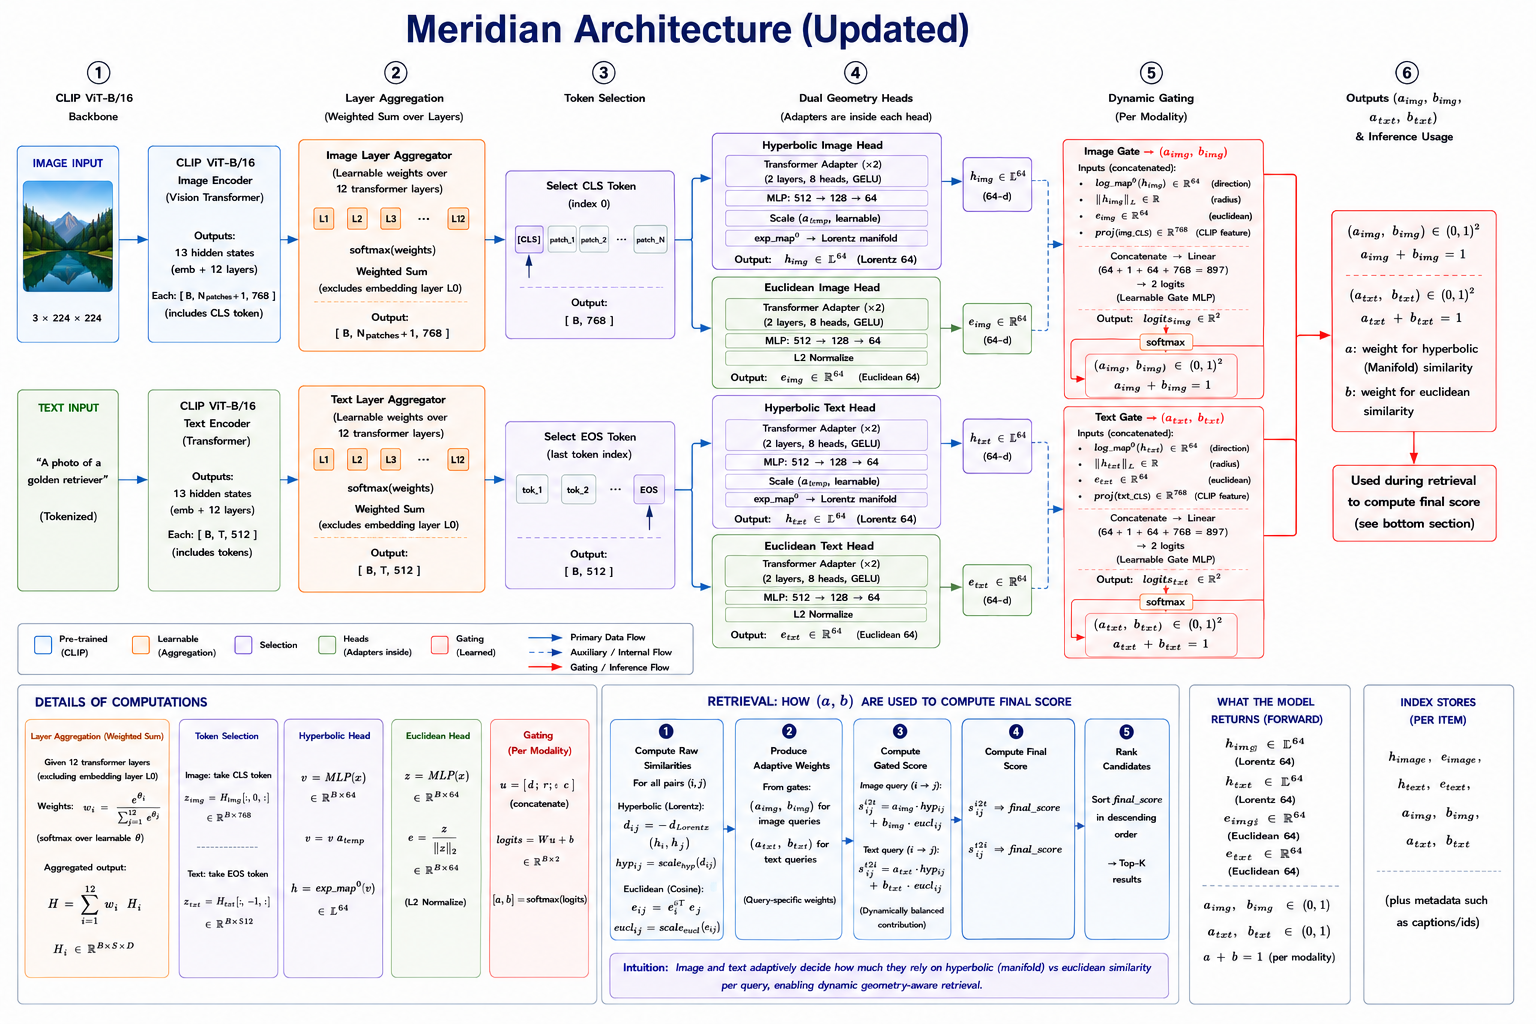
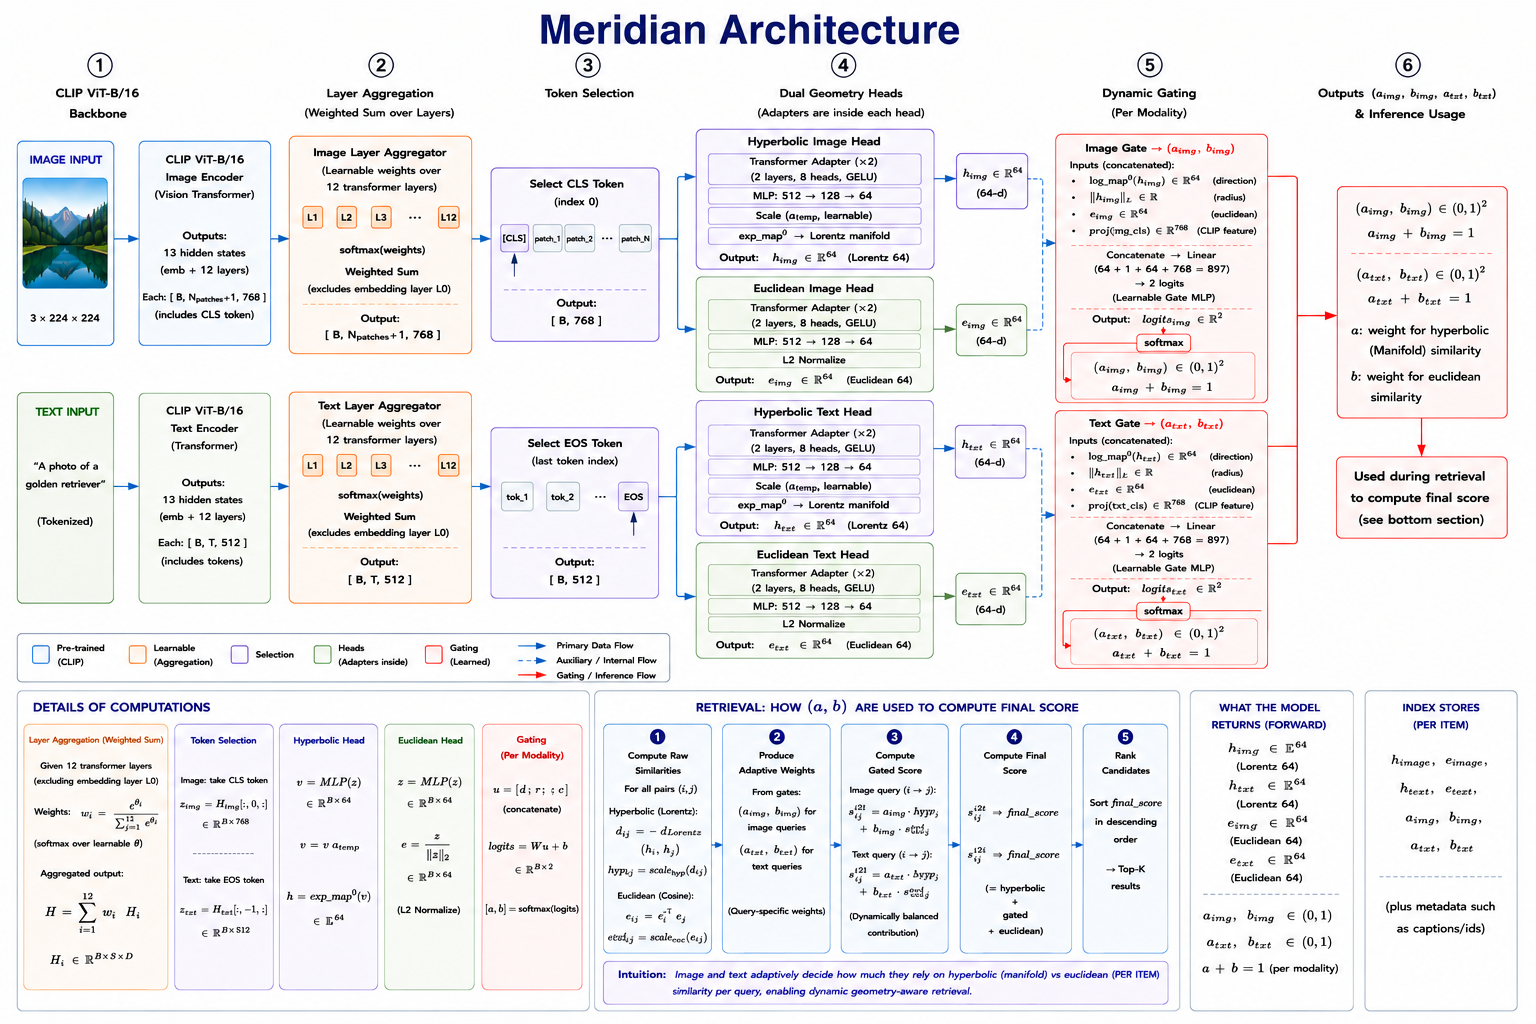
chore: cleanup

Changed region(s): [[0.0, 0.0, 1.0, 1.0], [0.875, 0.0625, 0.9688, 0.1562]]

diff --git a/README.md b/README.md
@@ -394,23 +394,6 @@ See `pyproject.toml` for the complete dependency list.
 
 ---
 
-## Development
-
-### Running Tests
-
-```bash
-pytest tests/ -v
-```
-
-### Code Style
-
-This project uses `black` for formatting and `ruff` for linting:
-
-```bash
-black meridian/
-ruff check meridian/
-```
-
 ### Contributing
 
 Contributions are welcome! Please: